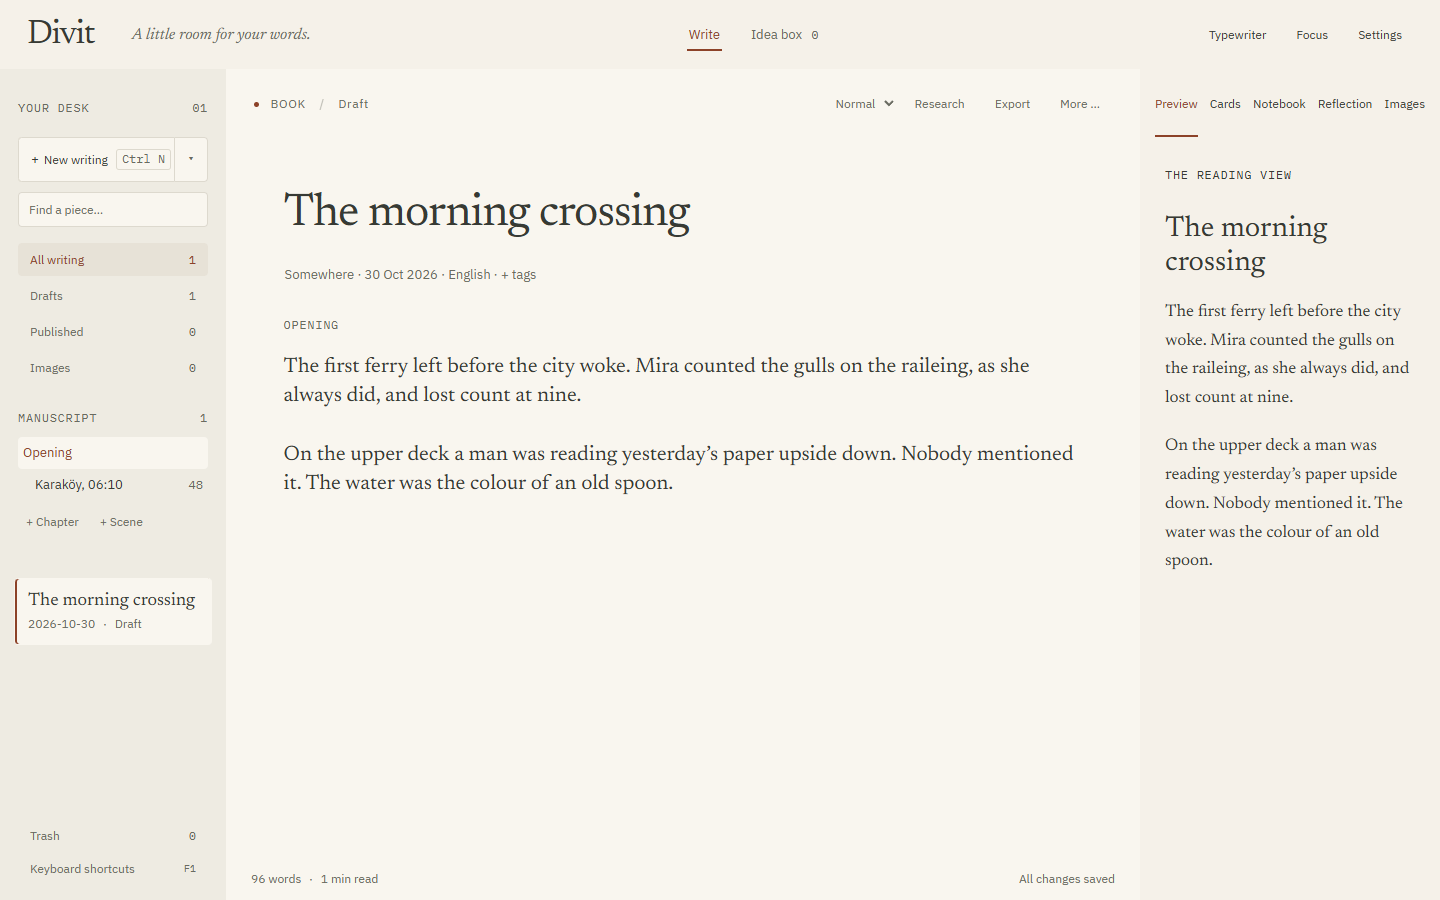
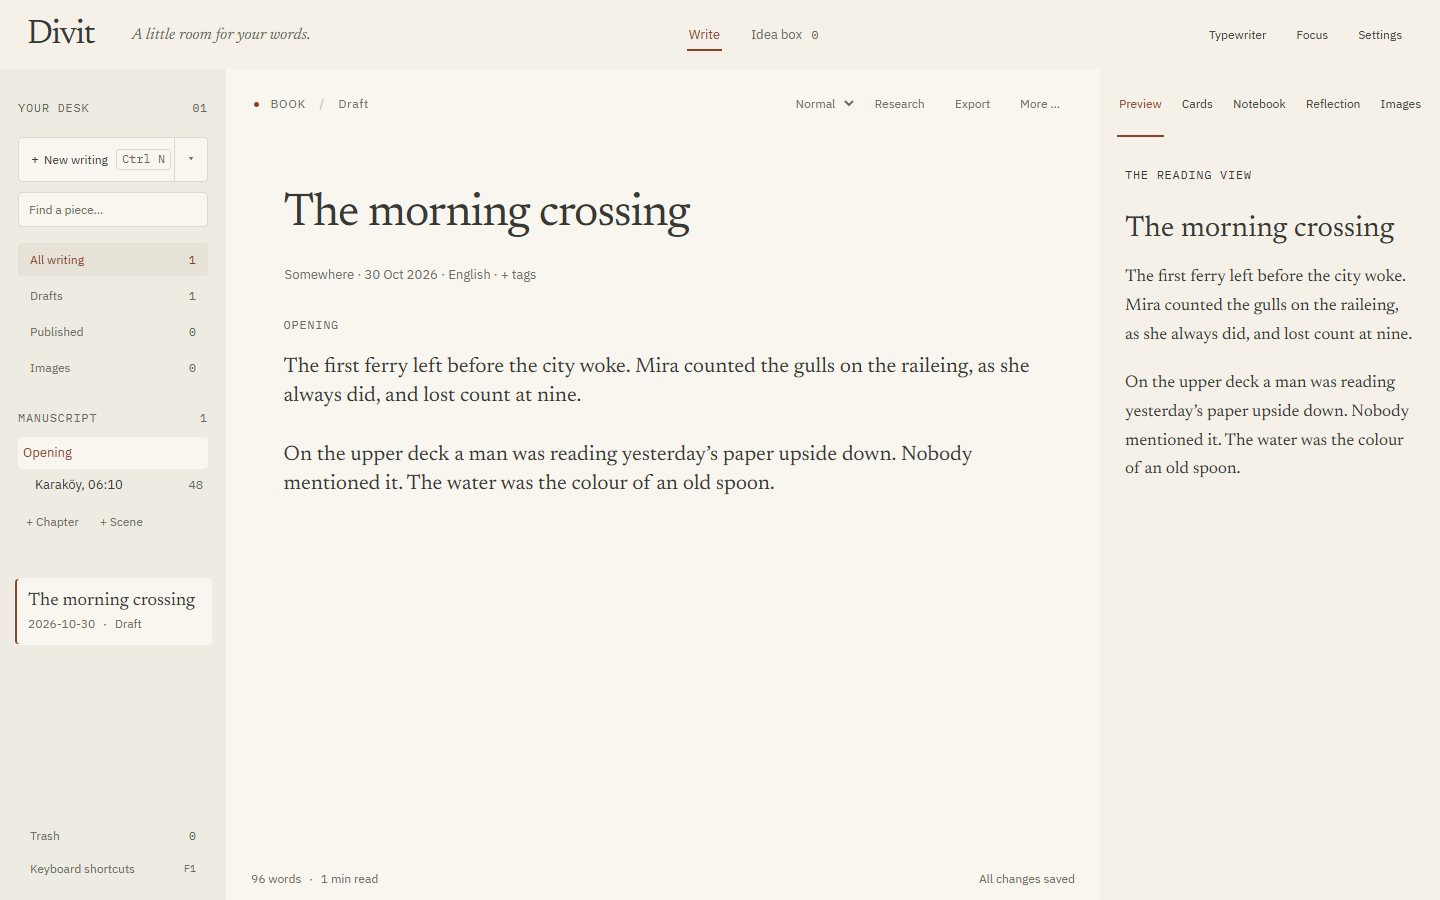
ui: Settings title, no repeated AI heading, companion tabs clear of the edges
The Settings dialog is titled Settings / Ayarlar, the AI tab no longer
repeats "AI (OPTIONAL)" above its fields, and the companion is 340 px
from 1300 px with evenly spaced tabs, so all five labels keep at least
12 px from both edges at 1440 px in English and Turkish.

diff --git a/src/App.tsx b/src/App.tsx
@@ -436,7 +436,7 @@ export function App() {
     {dialog === 'export' && draft && <Modal error={error} title={t('A finished copy')} close={() => { if (!busy) setDialog(null) }}><ExportPanel project={draft} disabled={busy} result={exportResult} quoted={research.research?.sources.filter(s => s.status === 'used').length ?? 0} run={(format, includeSources, engine) => void perform(() => exportCopy(format, includeSources, engine))}/></Modal>}
     {dialog === 'backup-close' && <Modal error={error} title={t('Your writing is saved')} close={() => setDialog(null)}><p className="quiet">{t('The backup could not be completed. Reconnect the backup drive and keep Divit open to try again, or close with your writing saved in Documents.')}</p><div className="dialog-actions"><button className="accent-button" onClick={() => setDialog(null)}>{t('Keep open')}</button><button onClick={() => { void closeWithoutBackup.current?.().catch(error => setError(message(error))) }}>{t('Close without backup')}</button></div></Modal>}
     {dialog === 'help' && <Modal error={error} title={t('A few familiar keys')} close={() => setDialog(null)}><dl className="shortcut-list">{[['Write / Review / Normal', 'Ctrl 1 / 2 / 3'], ['Leave Write mode', 'Esc'], ['New writing', 'Ctrl N'], ['New story or book', 'Ctrl Shift N'], ['Bring in writing', 'Ctrl O'], ['Add chapter / scene', 'Ctrl Alt 1 / 2'], ['Character/place cards', 'Ctrl Alt K'], ['Project notebook', 'Ctrl Alt N'], ['Snapshots', 'Ctrl Alt V'], ['Research', 'Ctrl Alt R'], ['Export', 'Ctrl Shift E'], ['Save now', 'Ctrl S'], ['Catch an idea', 'Ctrl Shift I'], ['Publish to my site (when set up)', 'Ctrl Shift Enter'], ['Typewriter mode', 'Ctrl Alt T'], ['Focus mode', 'Ctrl .'], ['Settings', 'Ctrl ,'],  ['Leave focus / close dialog', 'Esc'], ['Help and shortcuts', 'F1'], ['Undo / redo', 'Ctrl Z / Ctrl Shift Z']].map(([label, key]) => <div key={label}><dt>{t(label)}</dt><dd><kbd>{key}</kbd></dd></div>)}</dl><label className="field help-theme">{t('Theme')}{themePicker('help-theme')}</label><p className="quiet">{t('Use Tab and Shift Tab to reach every control. Text saves automatically while you write.')}</p><div className="help-feedback"><span className="section-label">{t('TELL US')}</span><p className="quiet">{t('Opens a GitHub issue in your browser with the app version and Windows version filled in. Your writing is never included.')}</p><div className="dialog-actions"><button className="outline-button" onClick={() => void systemInfo().then(info => api.openLink(issueUrl('feedback', info))).catch(error => setError(message(error)))}>{t('Send feedback ↗')}</button><button className="outline-button" onClick={() => void systemInfo().then(info => api.openLink(issueUrl('bug', info))).catch(error => setError(message(error)))}>{t('Report a bug ↗')}</button></div></div></Modal>}
-    {dialog === 'settings' && settings && <Modal error={error} title={t('Make yourself at home')} close={() => setDialog(null)}><SettingsForm dirty={JSON.stringify(settings) !== JSON.stringify(lib.settings)} busy={busy} cancel={() => setDialog(null)} save={() => void perform(async () => { await api.settings(settings); await refresh(); setDialog(null) })} panels={{
+    {dialog === 'settings' && settings && <Modal error={error} title={t('Settings')} close={() => setDialog(null)}><SettingsForm dirty={JSON.stringify(settings) !== JSON.stringify(lib.settings)} busy={busy} cancel={() => setDialog(null)} save={() => void perform(async () => { await api.settings(settings); await refresh(); setDialog(null) })} panels={{
       General: <><label className="field">{t('Interface language')}<select value={settings.uiLanguage ?? 'system'} onChange={e => setSettings({ ...settings, uiLanguage: e.target.value as Settings['uiLanguage'] })}><option value="system">{t('Same as Windows')}</option><option value="en" lang="en">English</option><option value="tr" lang="tr">Türkçe</option></select><small>{t('Menus and messages only. The language you write in is set per project.')}</small></label>{desktop && <div className="settings-updates"><label className="acknowledge"><input type="checkbox" checked={settings.checkUpdates !== false} onChange={e => setSettings({ ...settings, checkUpdates: e.target.checked })}/> {t('Check for a new version when Divit starts')}</label><small>{t('Asks GitHub for the latest release; nothing about you or your writing is sent. Divit always asks before installing.')}</small><div><button type="button" className="outline-button" onClick={() => void checkUpdatesNow()}>{t('Check for updates')}</button> <span className="quiet" role="status">{updateNote}</span></div></div>}</>,
       Writing: <><label className="field">{t('Daily writing goal')}<input type="number" min="0" max="100000" placeholder={t('Off')} value={settings.writingGoal || ''} onChange={e => { const value = Math.round(Number(e.target.value)); setSettings({ ...settings, writingGoal: Number.isFinite(value) && value > 0 ? Math.min(100000, value) : undefined }) }}/><small>{t('Optional. Shows today’s words and how many days in a row you have written, at the bottom of the page. Never shown in Write mode.')}</small></label><details className="settings-advanced" open={!!settings.siteRepo?.trim()}><summary>{t('Publish to my site (advanced)')}</summary><label className="field">{t('Site repository folder')}<input value={settings.siteRepo ?? ''} placeholder={t('Leave empty if you do not have one')} onChange={e => setSettings({ ...settings, siteRepo: e.target.value })}/><small>{t('For a blog kept in a local Git repository that has a check:content script. Divit writes the post and its images on a new branch and makes a local commit; you push it yourself. Needs Node.js 22. Leave empty to hide Publish to my site.')}</small></label></details></>,
       Appearance: <><label className="field">{t('Appearance')}{themePicker('settings-theme')}<small>{t('Applies at once. Match Windows follows the light or dark setting of Windows.')}</small></label></>,

diff --git a/src/i18n/tr.ts b/src/i18n/tr.ts
@@ -91,7 +91,7 @@ export const tr: Record<string, string> = {
   'Keyboard help': 'Klavye yardımı', 'Leave focus / close dialog': 'Odaktan çık / pencereyi kapat', 'Undo / redo': 'Geri al / yinele',
 
   // Settings
-  'Make yourself at home': 'Kendinizi evinizde hissedin', 'Interface language': 'Arayüz dili', 'Same as Windows': 'Windows ile aynı', 'Menus and messages only. The language you write in is set per project.': 'Yalnızca menüler ve iletiler. Yazdığınız dil her projede ayrı seçilir.',
+  'Interface language': 'Arayüz dili', 'Same as Windows': 'Windows ile aynı', 'Menus and messages only. The language you write in is set per project.': 'Yalnızca menüler ve iletiler. Yazdığınız dil her projede ayrı seçilir.',
   'Bring in writing': 'Yazı içe aktar', 'Help and shortcuts': 'Yardım ve kısayollar', 'WELCOME': 'HOŞ GELDİNİZ', 'A quiet place to write': 'Yazmak için sessiz bir yer', 'Projects': 'Projeler', 'Three modes': 'Üç mod', 'Private by default': 'Varsayılan olarak gizli', 'Got it': 'Anladım',
   'A blog post, a story or a book. Each one is a folder of plain files in Documents\\Divit that you can open without this app.': 'Bir blog yazısı, bir öykü ya da bir kitap. Her biri Belgeler\\Divit içinde, bu uygulama olmadan da açabileceğiniz düz dosyalardan oluşan bir klasördür.',
   'Write shows only your text. Review underlines spelling, checked on this computer. Normal brings back the panels. Switch with Ctrl 1, 2 and 3.': 'Yaz yalnızca metninizi gösterir. İncele, bu bilgisayarda denetlenen yazım hatalarının altını çizer. Normal panelleri geri getirir. Ctrl 1, 2 ve 3 ile geçiş yapın.',
@@ -120,7 +120,7 @@ export const tr: Record<string, string> = {
   'The browser preview does not back up your Documents files.': 'Tarayıcı önizlemesi Belgeler’deki dosyalarınızı yedeklemez.', 'Choose a backup folder outside Divit': 'Divit klasörünün dışında bir yedek klasörü seçin',
 
   // AI settings
-  'AI (OPTIONAL)': 'YAPAY ZEKÂ (İSTEĞE BAĞLI)', 'AI features run from the desktop app, which keeps the API key in Windows Credential Manager.': 'Yapay zekâ özellikleri, API anahtarını Windows Kimlik Bilgileri Yöneticisi’nde saklayan masaüstü uygulamasında çalışır.',
+  'AI features run from the desktop app, which keeps the API key in Windows Credential Manager.': 'Yapay zekâ özellikleri, API anahtarını Windows Kimlik Bilgileri Yöneticisi’nde saklayan masaüstü uygulamasında çalışır.',
   'Loading AI settings…': 'Yapay zekâ ayarları yükleniyor…', 'Use AI in Divit': 'Divit’te yapay zekâ kullan', 'AI runs from the desktop app.': 'Yapay zekâ masaüstü uygulamasında çalışır.',
   'Nothing runs in the background. AI helps only when you click, its answers are labelled “AI”, and it never writes into your text. Claude, ChatGPT or Gemini subscriptions cannot be used here: AI needs an API key, or a model on this computer.': 'Arka planda hiçbir şey çalışmaz. Yapay zekâ yalnızca siz tıkladığınızda yardım eder, yanıtları “AI” diye etiketlenir ve metninize asla yazmaz. Claude, ChatGPT ya da Gemini abonelikleri burada kullanılamaz: bir API anahtarı ya da bu bilgisayarda bir model gerekir.',
   'Provider': 'Sağlayıcı', 'Model': 'Model', 'Service address': 'Servis adresi', 'Presets: {list}.': 'Hazır adresler: {list}.',

diff --git a/src/settings/AiSettings.tsx b/src/settings/AiSettings.tsx
@@ -21,8 +21,8 @@ export function AiSettings() {
     setWorking(true); setProblem(''); setNote('')
     try { const result = await action(); if (result) setNote(result) } catch (error) { setProblem(message(error)) } finally { setWorking(false) }
   }
-  if (!desktop) return <section className="ai-settings"><div className="section-label">{t('AI (OPTIONAL)')}</div><p className="quiet">{t('AI features run from the desktop app, which keeps the API key in Windows Credential Manager.')}</p></section>
-  if (!status || !form) return <section className="ai-settings"><div className="section-label">{t('AI (OPTIONAL)')}</div>{problem ? <p className="research-problem" role="alert">{problem}</p> : <p className="quiet">{t('Loading AI settings…')}</p>}</section>
+  if (!desktop) return <section className="ai-settings" aria-label={t('AI')}><p className="quiet">{t('AI features run from the desktop app, which keeps the API key in Windows Credential Manager.')}</p></section>
+  if (!status || !form) return <section className="ai-settings" aria-label={t('AI')}>{problem ? <p className="research-problem" role="alert">{problem}</p> : <p className="quiet">{t('Loading AI settings…')}</p>}</section>
   const month = localDay().slice(0, 7), hasKey = status.hasKey[form.provider], keyOptional = form.provider === 'local'
   const models = form.provider === 'gemini' ? status.models.gemini : form.provider === 'anthropic' ? status.models.anthropic : null
   const model = models?.find(m => m.id === form.model), provider = providers.find(p => p.id === form.provider)!
@@ -38,8 +38,7 @@ export function AiSettings() {
     setKey('')
   }
   const save = () => run(async () => { const next = await ai.save(form); setStatus(next); setForm(next.config); return t('AI settings saved.') })
-  return <section className="ai-settings" aria-labelledby="ai-settings-title">
-    <div className="section-label" id="ai-settings-title">{t('AI (OPTIONAL)')}</div>
+  return <section className="ai-settings" aria-label={t('AI')}>
     <label className="acknowledge"><input type="checkbox" checked={form.enabled} onChange={event => setForm({ ...form, enabled: event.target.checked })}/> {t('Use AI in Divit')}</label>
     <p className="quiet">{t('AI runs only when you ask and never changes your writing.')}</p>
     {form.enabled && <>

diff --git a/tests/ui/shell.spec.ts b/tests/ui/shell.spec.ts
@@ -108,3 +108,15 @@ test('companion tabs say Reflection and Notebook, so they do not echo Review and
   await expect(page.locator('#writing-companion [role=tab]')).toHaveText(['Preview', 'Cards', 'Notebook', 'Reflection', 'Images'])
   await page.keyboard.press('Control+Alt+n'); await expect(page.getByRole('tab', { name: 'Notebook', exact: true })).toHaveAttribute('aria-selected', 'true')
 })
+
+for (const locale of ['en-GB', 'tr-TR']) test(`companion tabs keep clear of the edges at 1440 px (${locale})`, async ({ browser }) => {
+  const page = await browser.newPage({ locale, viewport: { width: 1440, height: 900 } })
+  await page.goto('/'); await page.evaluate(() => localStorage.clear()); await page.reload()
+  await page.locator('.new-split .new-button').click(); await page.locator('.title-input').waitFor()
+  const room = await page.locator('#writing-companion .panel-tabs').evaluate(bar => {
+    const box = bar.getBoundingClientRect(), tabs = [...bar.querySelectorAll('[role=tab]')].map(t => t.getBoundingClientRect())
+    return { overflow: bar.scrollWidth - bar.clientWidth, left: tabs[0].left - box.left, right: box.right - tabs[tabs.length - 1].right }
+  })
+  expect(room.overflow).toBeLessThanOrEqual(0); expect(room.left).toBeGreaterThanOrEqual(12); expect(room.right).toBeGreaterThanOrEqual(12)
+  await page.close()
+})

diff --git a/src/polish/shell.css b/src/polish/shell.css
@@ -60,3 +60,8 @@
 .library-filters span,.library-bottom span{font-family:'IBM Plex Mono',monospace}
 .new-split .new-button{white-space:nowrap;gap:8px}
 @media(max-width:1150px){.new-split .new-button kbd{display:none}}
+
+/* Companion tabs: five labels fit with room to spare on both sides, in English and Turkish. */
+@media(min-width:1300px){.side-panel{width:340px}}
+.panel-tabs{gap:8px;padding:0 16px;justify-content:space-between}
+.panel-tabs button{padding:0 2px;white-space:nowrap}

diff --git a/tests/ui/research-topic-box.spec.ts b/tests/ui/research-topic-box.spec.ts
@@ -37,5 +37,5 @@ test('with AI off the Sources box points to Settings and still prefills a reques
   await expect(form.getByRole('button', { name: 'Save request' })).toBeVisible()
   await box.fill('kış vapuru')
   await drawer.getByRole('button', { name: 'Turn on AI in Settings to search' }).click()
-  await expect(page.getByRole('dialog', { name: 'Make yourself at home' })).toBeVisible()
+  await expect(page.getByRole('dialog', { name: 'Settings' })).toBeVisible()
 })

diff --git a/docs/UI_TIDY.md b/docs/UI_TIDY.md
@@ -46,5 +46,4 @@ When both parts are done, Claude Code merges `ui/panels` into `ui/shell`, resolv
 
 ### Left over
 - Labels under 12 px still exist in places neither part owned: character cards (`.project-card>small` 8 px), the snapshot comparison headers (8 px), notebook tab buttons and export result lines (10 px), the Publish to my site checklist (11 px).
-- The Settings title ("Make yourself at home", 32 px) takes room at 960×700; a shorter heading would give the tabs more height.
 - Only the browser preview was checked; the desktop build was not rebuilt or run for this branch.
